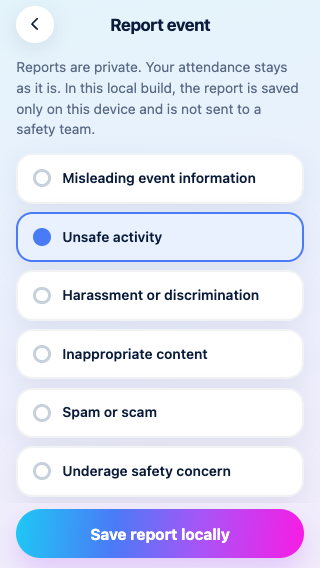
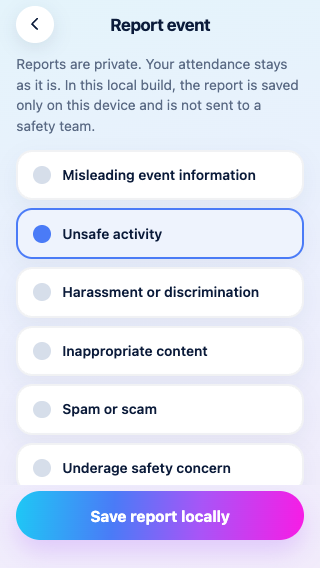
fix(events): preserve report group origin across refresh

diff --git a/src/pages/events/report.vue b/src/pages/events/report.vue
@@ -5,6 +5,7 @@ import { use_app_store } from '@/stores/store.js'
 import { use_write_loading } from '@/composables/useWriteLoading.js'
 import { relaunch_route } from '@/utils/routeTransition.js'
 import { startup_destination } from '@/utils/authNavigation.js'
+import { event_report_fallback } from '@/utils/eventsNavigation.js'
 import SecondaryPageFrame from '@/components/SecondaryPageFrame.vue'
 import EventPageHeader from '@/components/EventPageHeader.vue'
 import EventActionLoading from '@/components/EventActionLoading.vue'
@@ -12,18 +13,20 @@ import EventActionLoading from '@/components/EventActionLoading.vue'
 const store = use_app_store()
 const frame = ref(null)
 const event_id = ref('')
+const origin_conversation_id = ref('')
 const reason = ref('')
 const error = ref('')
 const submitted_id = ref('')
 const account_id = store.session.account_id
+const auth_context = store.auth_context
 const { is_loading, run_with_loading, cancel_loading } = use_write_loading()
 let active = true
 
-const reasons = ['Misleading event information', 'Unsafe activity', 'Harassment or discrimination', 'Inappropriate content', 'Spam or scam', 'Underage safety concern', 'Other']
+const reasons = computed(() => store.event_report_reasons)
 const event = computed(() => store.event_by_id(event_id.value))
 const access_error = computed(() => store.hydration_status !== 'ready'
   ? 'Saved data is unavailable. Please return and retry.'
-  : !store.session.is_authenticated || store.session.account_id !== account_id
+  : !store.session.is_authenticated || store.session.account_id !== account_id || store.auth_context !== auth_context
     ? 'Your session has ended or the account changed. Return to account entry.'
     : !submitted_id.value && !event.value
       ? 'This event is no longer available and cannot be reported.'
@@ -38,6 +41,7 @@ const restore_saved_report = preferred_id => {
 }
 onLoad(options => {
   event_id.value = String(options?.event_id || '')
+  origin_conversation_id.value = String(options?.origin_conversation_id || '')
   restore_saved_report(options?.report_id)
 })
 const leave = () => { active = false; cancel_loading() }
@@ -48,12 +52,12 @@ onUnmounted(leave)
 const recover = async () => { try { await relaunch_route(startup_destination(store)) } catch (cause) { error.value = cause.message } }
 const back = async () => {
   if (is_loading.value) return
-  try { await frame.value.navigate_back(`/pages/events/detail?event_id=${encodeURIComponent(event_id.value)}`) } catch (cause) { error.value = cause.message }
+  try { await frame.value.navigate_back(event_report_fallback(store, event_id.value, origin_conversation_id.value)) } catch (cause) { error.value = cause.message }
 }
 const submit = async () => {
   if (is_loading.value || access_error.value || !ready.value) { if (!reason.value) error.value = 'Choose a reason before saving this report.'; return }
   error.value = ''
-  const result = await run_with_loading(() => store.submit_report({ target_type: 'event', target_id: event_id.value, reason: reason.value }))
+  const result = await run_with_loading(() => access_error.value ? { success: false, message: access_error.value } : store.submit_report({ target_type: 'event', target_id: event_id.value, reason: reason.value }))
   if (!active || result.reason === 'cancelled') return
   if (!result.success) { error.value = result.message || 'This report could not be saved.'; return }
   submitted_id.value = result.data
@@ -85,16 +89,48 @@ const submit = async () => {
 </template>
 
 <style scoped>
-.event-report-body { padding-top: 7.634rpx; }
+.event-report-body { padding-top: 0; }
 .event-report-intro { margin-top: 0; }
 .event-report-reasons { display: flex; flex-direction: column; gap: 19.084rpx; margin-top: 30.534rpx; }
-.event-report-reason { display: flex; align-items: center; gap: 26.718rpx; min-height: 118.321rpx; padding: 22.901rpx 34.351rpx; border: 2px solid var(--cimoa-surface-onboarding-border); border-radius: 38.168rpx; background: var(--cimoa-surface-card); box-shadow: var(--cimoa-shadow-card); cursor: pointer; }
-.event-report-reason.selected { border-color: var(--cimoa-button-primary); background: var(--cimoa-surface-verification-pill); }
-.event-report-dot { flex: none; width: 41.985rpx; height: 41.985rpx; border: 7.634rpx solid var(--cimoa-surface-onboarding-dashed); border-radius: 50%; background: var(--cimoa-surface-card); }
+.event-report-reason {
+  display: flex;
+  align-items: center;
+  gap: 26.718rpx;
+  min-height: 118.321rpx;
+  padding: 22.901rpx 34.351rpx;
+  border: 2px solid var(--cimoa-surface-onboarding-border);
+  border-radius: 38.168rpx;
+  background: var(--cimoa-surface-card);
+  box-shadow: var(--cimoa-shadow-auth-secondary);
+  cursor: pointer;
+}
+.event-report-reason.selected { border-color: var(--cimoa-button-primary); background: var(--cimoa-surface-event-report-selected); }
+.event-report-dot {
+  flex: none;
+  width: 41.985rpx;
+  height: 41.985rpx;
+  border: 0;
+  border-radius: 50%;
+  background: var(--cimoa-surface-event-report-dot);
+}
 .event-report-reason.selected .event-report-dot { border-color: var(--cimoa-button-primary); background: var(--cimoa-button-primary); }
 .event-report-reason text { font-size: 32.443rpx; font-weight: 600; line-height: 1.35; }
-.event-report-saved { margin: 76.336rpx 38.168rpx; padding: 45.802rpx; border-radius: 45.802rpx; background: var(--cimoa-surface-card); box-shadow: var(--cimoa-shadow-card); color: var(--cimoa-text-secondary); font-size: 30.534rpx; line-height: 1.5; text-align: center; }
+.event-report-saved {
+  margin: 76.336rpx 38.168rpx;
+  padding: 45.802rpx;
+  border-radius: 45.802rpx;
+  background: var(--cimoa-surface-card);
+  box-shadow: var(--cimoa-shadow-card);
+  color: var(--cimoa-text-secondary);
+  font-size: 30.534rpx;
+  line-height: 1.5;
+  text-align: center;
+}
 .event-report-saved-title { display: block; margin-bottom: 19.084rpx; color: var(--cimoa-status-success); font-size: 41.985rpx; font-weight: 800; }
 .event-report-id { display: block; margin: 19.084rpx 0 30.534rpx; font-size: 24.809rpx; overflow-wrap: anywhere; }
 .event-report-recover { margin-top: 30.534rpx; }
+.event-report-reason { box-shadow: var(--cimoa-shadow-event-report); }
+.event-report-reason text { line-height: normal; }
+.event-page-footer { padding-bottom: 64.885rpx; }
+.event-page-primary[aria-disabled='true'] { opacity: 1; background: var(--cimoa-surface-event-handle); color: var(--cimoa-text-onboarding-muted); }
 </style>

diff --git a/ios/cimoaNeapo/Tests/HostTests.swift b/ios/cimoaNeapo/Tests/HostTests.swift
@@ -2559,10 +2559,13 @@ final class HostTests: XCTestCase {
             let result = try await script(host, """
             const delay=ms=>new Promise(r=>setTimeout(r,ms)),visible=s=>[...document.querySelectorAll(s)].find(e=>e.getBoundingClientRect().height>0),wait=async fn=>{for(let i=0;i<120;i++){if(fn())return;await delay(50)}throw Error('Group regression timeout '+location.hash)},click=async id=>{await delay(350);visible('[data-interaction="'+id+'"]').click();await delay(60)};
             await click('evGroup.openGroupMenu.click.1');await click('eventGroup.menu.participants.click.1');await wait(()=>visible('.event-participants-page'));const count=document.querySelectorAll('.event-person').length;
-            await click('evParticipants.goBack.click.1');await wait(()=>visible('.event-group-page'));await click('evGroup.openGroupMenu.click.1');await click('eventGroup.menu.manage.click.1');await click('sheetEvCancel.cancelAttendance.click.1');await wait(()=>visible('.event-group-page [role=alert]'));
-            return {count,messages:document.querySelectorAll('.event-message').length,composer:!!visible('.event-group-composer')}
+            await click('evParticipants.goBack.click.1');await wait(()=>visible('.event-group-page'));await click('evGroup.openGroupMenu.click.1');await click('eventGroup.menu.report.click.1');await wait(()=>visible('.event-report-page'));
+            const attendanceBefore=JSON.stringify(JSON.parse(localStorage.getItem('cimoa_app_state_v2')).data.memberships);[...document.querySelectorAll('[role=radio]')].find(e=>e.textContent.includes('Unsafe activity')).click();await click('evReport.submitEvReport.click.1');await wait(()=>visible('.event-report-saved'));
+            const reported=JSON.parse(localStorage.getItem('cimoa_app_state_v2')).data;if(attendanceBefore!==JSON.stringify(reported.memberships))throw Error('Report changed attendance');const reportTarget=reported.reports.at(-1)?.target_id;
+            await click('evReport.goBack.click.2');await wait(()=>visible('.event-group-page'));await click('evGroup.openGroupMenu.click.1');await click('eventGroup.menu.manage.click.1');await click('sheetEvCancel.cancelAttendance.click.1');await wait(()=>visible('.event-group-page [role=alert]'));
+            return {count,reportTarget,messages:document.querySelectorAll('.event-message').length,composer:!!visible('.event-group-composer')}
             """) as! [String:Any]
-            XCTAssertEqual(result["count"] as? Int, 4); XCTAssertEqual(result["messages"] as? Int, 0); XCTAssertEqual(result["composer"] as? Bool, false)
+            XCTAssertEqual(result["count"] as? Int, 4); XCTAssertEqual(result["messages"] as? Int, 0); XCTAssertEqual(result["composer"] as? Bool, false); XCTAssertEqual(result["reportTarget"] as? String, "event_picnic")
             try await restore()
         } catch { try? await restore(); throw error }
     }

diff --git a/src/utils/eventsNavigation.js b/src/utils/eventsNavigation.js
@@ -1,4 +1,4 @@
-export function events_destination(store, kind, id) {
+export function events_destination(store, kind, id, origin_conversation_id = '') {
   if (store.hydration_status !== 'ready') throw new Error('Saved data is unavailable. Please retry loading it.')
   if (!store.session.is_authenticated) throw new Error('Your session has expired. Please sign in again.')
   if (kind === 'profile') return '/pages/profile/index'
@@ -8,7 +8,14 @@ export function events_destination(store, kind, id) {
   if (!['detail', 'participants', 'group', 'join-success', 'report'].includes(kind)) throw new Error('This page is unavailable.')
   if (['group', 'join-success'].includes(kind) && !event.joined) throw new Error('Join this event before opening this page.')
   if (kind === 'group' && !event.conversation_id) throw new Error('The event group is unavailable.')
-  return `/pages/events/${kind}?event_id=${encodeURIComponent(id)}` + (kind === 'group' ? `&conversation_id=${encodeURIComponent(event.conversation_id)}` : '')
+  if (kind === 'report' && origin_conversation_id && !store.event_group(id, origin_conversation_id)) throw new Error('The report origin does not match an accessible event group.')
+  return `/pages/events/${kind}?event_id=${encodeURIComponent(id)}` + (kind === 'group' ? `&conversation_id=${encodeURIComponent(event.conversation_id)}` : kind === 'report' && origin_conversation_id ? `&origin_conversation_id=${encodeURIComponent(origin_conversation_id)}` : '')
+}
+export function event_report_fallback(store, id, origin_conversation_id = '') {
+  try {
+    if (origin_conversation_id && store.event_group(id, origin_conversation_id)) return events_destination(store, 'group', id)
+    return events_destination(store, 'detail', id)
+  } catch { return '/pages/events/index' }
 }
 // Per-target gates are removed only when their own Stage 5 restoration is complete.
 export const EVENTS_DEFERRED_ROUTES = Object.freeze([])

diff --git a/src/composables/useEventPage.js b/src/composables/useEventPage.js
@@ -17,7 +17,7 @@ export function use_event_page(frame, { needsEvent = true, joinedOnly = false } 
   const go = async (kind, id = event_id.value, replace = false) => {
     if (navigating.value || is_loading.value || access_error.value) return
     navigating.value = true; error.value = ''; store.tick()
-    try { const url = require_events_destination_ready(events_destination(store, kind, id)); await frame.value[replace ? 'navigate_replace' : 'navigate_forward'](url) }
+    try { const url = require_events_destination_ready(events_destination(store, kind, id, kind === 'report' ? conversation_id.value : '')); await frame.value[replace ? 'navigate_replace' : 'navigate_forward'](url) }
     catch (cause) { error.value = cause.message } finally { navigating.value = false }
   }
   const back = async (fallback = '/pages/events/index') => {

diff --git a/src/stores/eventSelectors.js b/src/stores/eventSelectors.js
@@ -6,6 +6,7 @@ export const EVENT_TABS = Object.freeze([
   { label: 'This week', interaction_id: 'events.chipWeek.click.1' },
   { label: 'My campus', interaction_id: 'events.chipCampus.click.1' },
 ])
+export const EVENT_REPORT_REASONS = Object.freeze(['Misleading event information', 'Unsafe activity', 'Harassment or discrimination', 'Inappropriate content', 'Spam or scam', 'Underage safety concern', 'Other'])
 export const active_event_tab = data => data.event_preferences.find(row => row.owner_user_id === owner_id(data))?.active_tab || 'Today'
 const date_key = (time, zone) => {
   const parts = Object.fromEntries(new Intl.DateTimeFormat('en-US', { timeZone: zone, year: 'numeric', month: '2-digit', day: '2-digit' }).formatToParts(time).map(part => [part.type, part.value]))

diff --git a/src/stores/store.js b/src/stores/store.js
@@ -154,6 +154,7 @@ export const use_app_store = defineStore('app', {
     unread_count() { return this.current_conversations.reduce((sum, row) => sum + row.unread_count, 0) },
     events: (state) => ready(state) ? state.data.events.map(event => ev.event_card(state.data, event, state.clock_ms)) : [],
     event_tabs: () => ev.EVENT_TABS,
+    event_report_reasons: () => ev.EVENT_REPORT_REASONS,
     active_event_tab: (state) => ready(state) ? ev.active_event_tab(state.data) : 'Today',
     event_feed: (state) => ready(state) ? ev.event_feed(state.data, state.clock_ms) : [],
     event_by_id() { return id => clone_data(this.events.find(row => row.event_id === id) || null) },

diff --git a/docs/ui-restoration/event-report/difference-audit.md b/docs/ui-restoration/event-report/difference-audit.md
@@ -1,0 +1,7 @@
+# event-report 差异审计
+
+来源、完整样式/文案/SVG 与 interaction IDs 见 source-contract.json。模块逐项发现与处理见 ../events/source-contract.md。
+
+- 原型UI为来源；现有 Vue 页面不是来源证据。
+- 真实账号、报名、人数、关系及消息均读取统一 Store；不照搬虚构原型人数/聊天状态。
+- 本轮先校正已明确差异并执行功能回归。原型独立 reference/overlay/diff 尚未完成，因此视觉与完整验收保持 pending，不标 verified。
